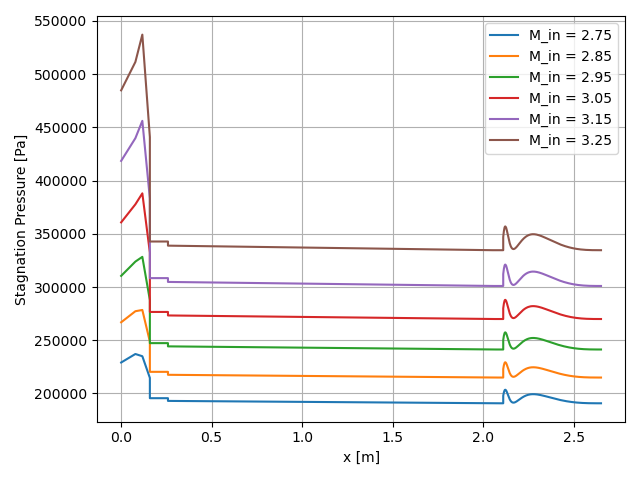
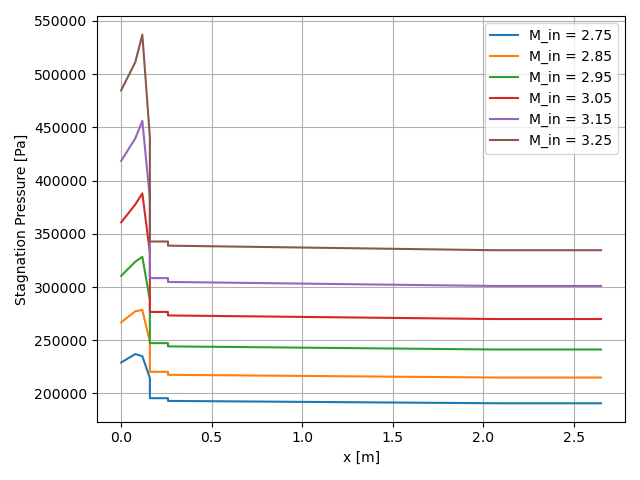
Changed analyze_nozzle_moc to average mach number only and calculate P and T using isentropic relations rather than independently mass avg each property.

Changed region(s): [[0.7812, 0.5625, 0.9062, 0.8438], [0.7812, 0.4688, 0.9375, 0.5312]]

diff --git a/Final/nozzle.py b/Final/nozzle.py
@@ -743,8 +743,8 @@ def analyze_nozzle_moc(x6s, h6s, P5, T5, M5, depth, n_characteristics=300):
         intersections.sort(key=lambda p: p['y'])
         
         M_mass_sum = 0
-        p_mass_sum = 0
-        T_mass_sum = 0
+        # p_mass_sum = 0
+        # T_mass_sum = 0
         rho_u_sum = 0
         y_prev = 0
         
@@ -754,18 +754,18 @@ def analyze_nozzle_moc(x6s, h6s, P5, T5, M5, depth, n_characteristics=300):
             
             if i == 0:
                 M_val = intersection['M']
-                p_val = intersection['p_p0']
-                T_val = intersection['T_T0']
+                # p_val = intersection['p_p0']
+                # T_val = intersection['T_T0']
                 rho_u_val = intersection['rho_u']
             else:
                 M_val = (intersections[i-1]['M'] + intersection['M']) / 2
-                p_val = (intersections[i-1]['p_p0'] + intersection['p_p0']) / 2
-                T_val = (intersections[i-1]['T_T0'] + intersection['T_T0']) / 2
+                # p_val = (intersections[i-1]['p_p0'] + intersection['p_p0']) / 2
+                # T_val = (intersections[i-1]['T_T0'] + intersection['T_T0']) / 2
                 rho_u_val = (intersections[i-1]['rho_u'] + intersection['rho_u']) / 2
             
             M_mass_sum += M_val * rho_u_val * dy
-            p_mass_sum += p_val * rho_u_val * dy
-            T_mass_sum += T_val * rho_u_val * dy
+            # p_mass_sum += p_val * rho_u_val * dy
+            # T_mass_sum += T_val * rho_u_val * dy
             rho_u_sum += rho_u_val * dy
             y_prev = y_curr
         
@@ -773,18 +773,29 @@ def analyze_nozzle_moc(x6s, h6s, P5, T5, M5, depth, n_characteristics=300):
         if y_last_intersection < y_wall_at_x:
             dy = y_wall_at_x - y_last_intersection
             M_val = intersections[-1]['M']
-            p_val = intersections[-1]['p_p0']
-            T_val = intersections[-1]['T_T0']
+            # p_val = intersections[-1]['p_p0']
+            # T_val = intersections[-1]['T_T0']
             rho_u_val = intersections[-1]['rho_u']
             
             M_mass_sum += M_val * rho_u_val * dy
-            p_mass_sum += p_val * rho_u_val * dy
-            T_mass_sum += T_val * rho_u_val * dy
+            # p_mass_sum += p_val * rho_u_val * dy
+            # T_mass_sum += T_val * rho_u_val * dy
             rho_u_sum += rho_u_val * dy
         
-        M_mass_avg.append(M_mass_sum / rho_u_sum)
-        p_mass_avg.append(P0 * (p_mass_sum / rho_u_sum))
-        T_mass_avg.append(T0 * (T_mass_sum / rho_u_sum))
+        # M_mass_avg.append(M_mass_sum / rho_u_sum)
+        # p_mass_avg.append(P0 * (p_mass_sum / rho_u_sum))
+        # T_mass_avg.append(T0 * (T_mass_sum / rho_u_sum))
+
+        # Averaged Mach number
+        M_avg = M_mass_sum / rho_u_sum
+        
+        # Calculate P and T to be consistent with constant P0, T0
+        P_consistent = P0 / (1 + (gamma-1)/2 * M_avg**2)**(gamma/(gamma-1))
+        T_consistent = T0 / (1 + (gamma-1)/2 * M_avg**2)
+        
+        M_mass_avg.append(M_avg)
+        p_mass_avg.append(P_consistent)
+        T_mass_avg.append(T_consistent)
     
     Ms = np.array(M_mass_avg)
     Ps = np.array(p_mass_avg)
@@ -884,9 +895,6 @@ def analyze_nozzle_1d(h6s, P5, T5, M5, depth):
     Ts = T_T0 * T0
 
     return Ps, Ts, Ms
-
-
-
 
 if __name__ == "__main__":
     P4 = 200000
@@ -1000,7 +1008,7 @@ if __name__ == "__main__":
     T5 = 1300
     M5 = 1
 
-    Ps, Ts, Ms, c_plus_chars, c_minus_chars = analyze_nozzle(x_nozzle, h_nozzle, P5, T5, M5, depth)
+    Ps, Ts, Ms, c_plus_chars, c_minus_chars = analyze_nozzle_moc(x_nozzle, h_nozzle, P5, T5, M5, depth)
 
     print("On-Design MOC Analysis")
     print(f"P6 = {Ps[-1]} Pa")

diff --git a/Final/evaluate.py b/Final/evaluate.py
@@ -124,7 +124,7 @@ for r in results:
     r["T0s"].extend(con_Ts * T0_T(con_Ms, gamma))
 
     # Nozzle
-    noz_Ps, noz_Ts, noz_Ms, _, _ = analyze_nozzle_moc(nozzle_df["x_vals"], nozzle_df["height"], r["Ps"][-1], r["Ts"][-1], r["Ms"][-1], width, n_characteristics=300)
+    noz_Ps, noz_Ts, noz_Ms, _, _ = analyze_nozzle_moc(nozzle_df["x_vals"], nozzle_df["height"], r["Ps"][-1], r["Ts"][-1], r["Ms"][-1], width, n_characteristics=50)
     #noz_Ps, noz_Ts, noz_Ms = analyze_nozzle_1d(nozzle_df["height"], r["Ps"][-1], r["Ts"][-1], r["Ms"][-1], width)
     r["xs"].extend(nozzle_df["x_vals"] + r["xs"][-1])
     r["Ms"].extend(noz_Ms)
